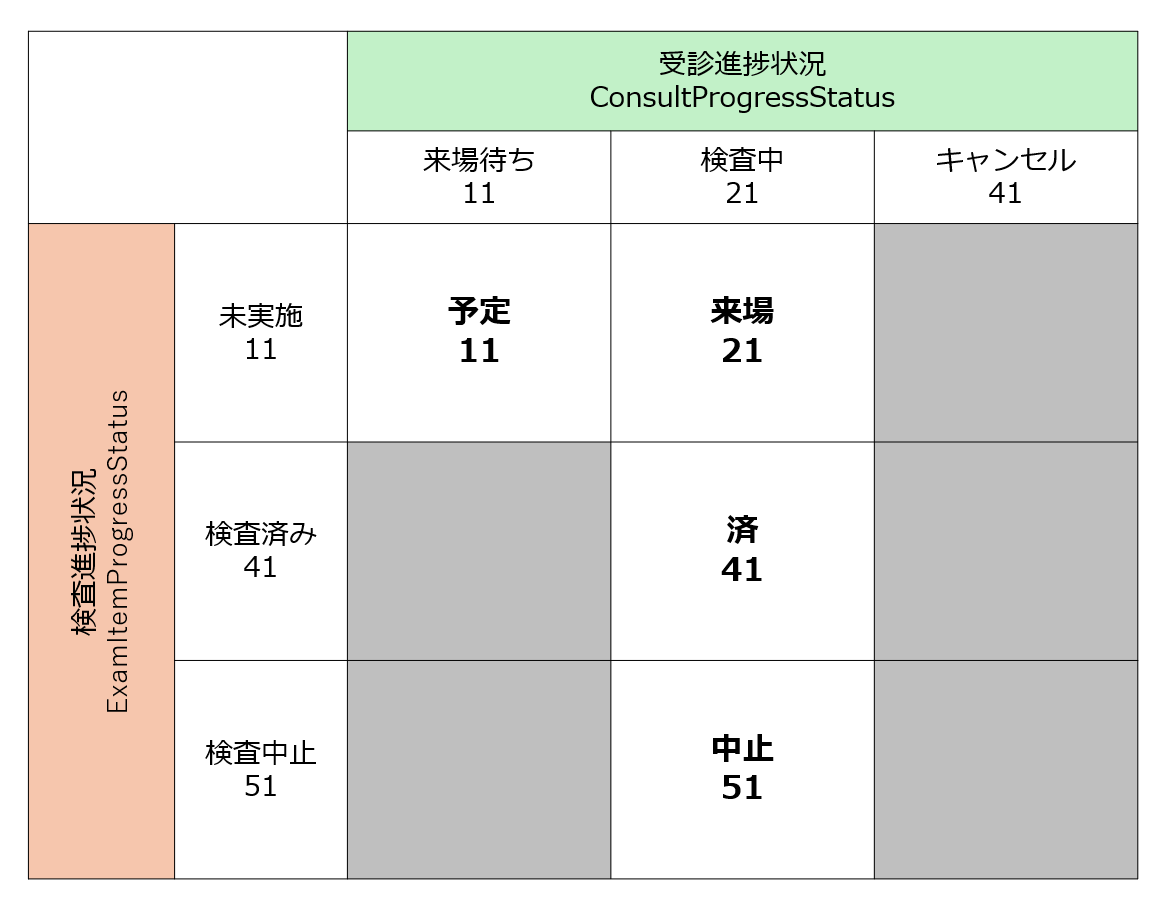
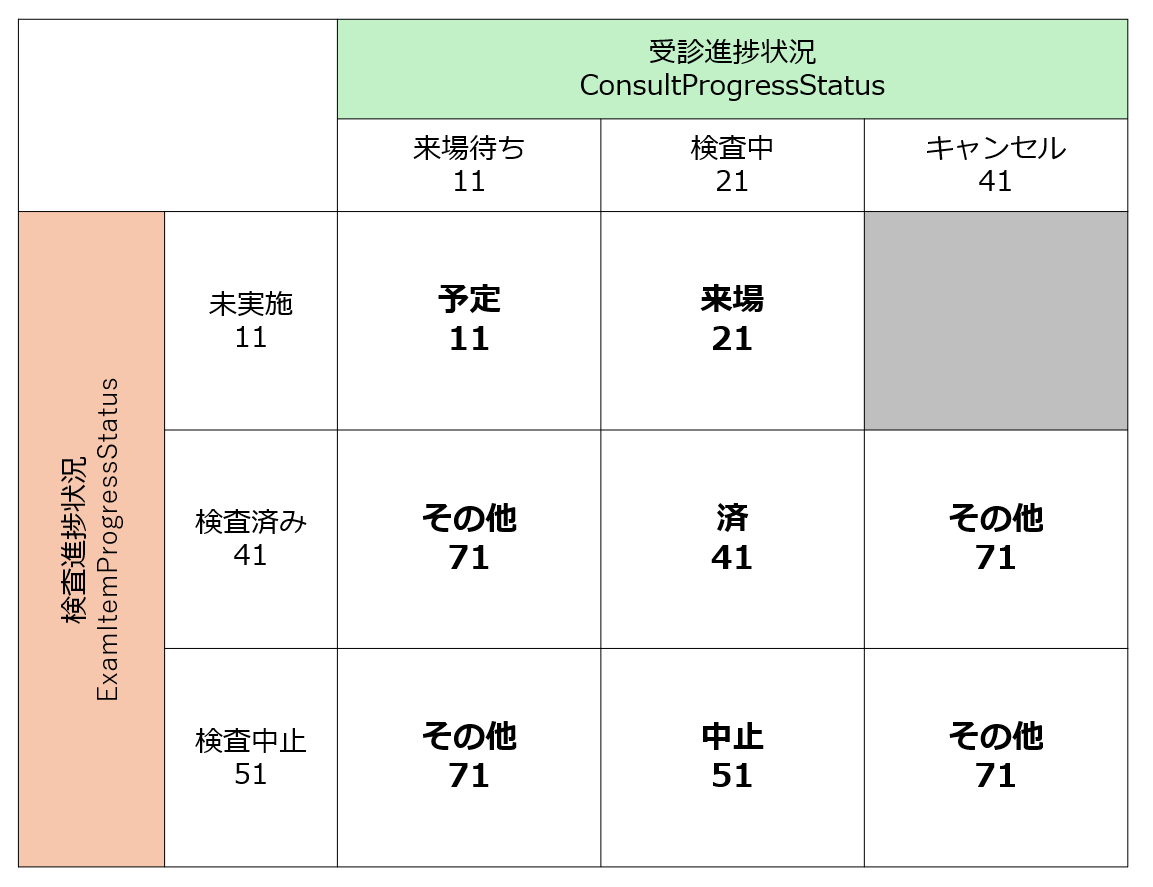
進捗の計算ルールを変更してその他を表示する

diff --git a/Backend/src/Wellship.Core/Enums/AggregatedProgressStatus.cs b/Backend/src/Wellship.Core/Enums/AggregatedProgressStatus.cs
@@ -24,5 +24,10 @@ public enum AggregatedProgressStatus
     /// <summary>
     /// 中止
     /// </summary>
-    中止 = 51
+    中止 = 51,
+
+    /// <summary>
+    /// その他
+    /// </summary>
+    その他 = 71
 }
